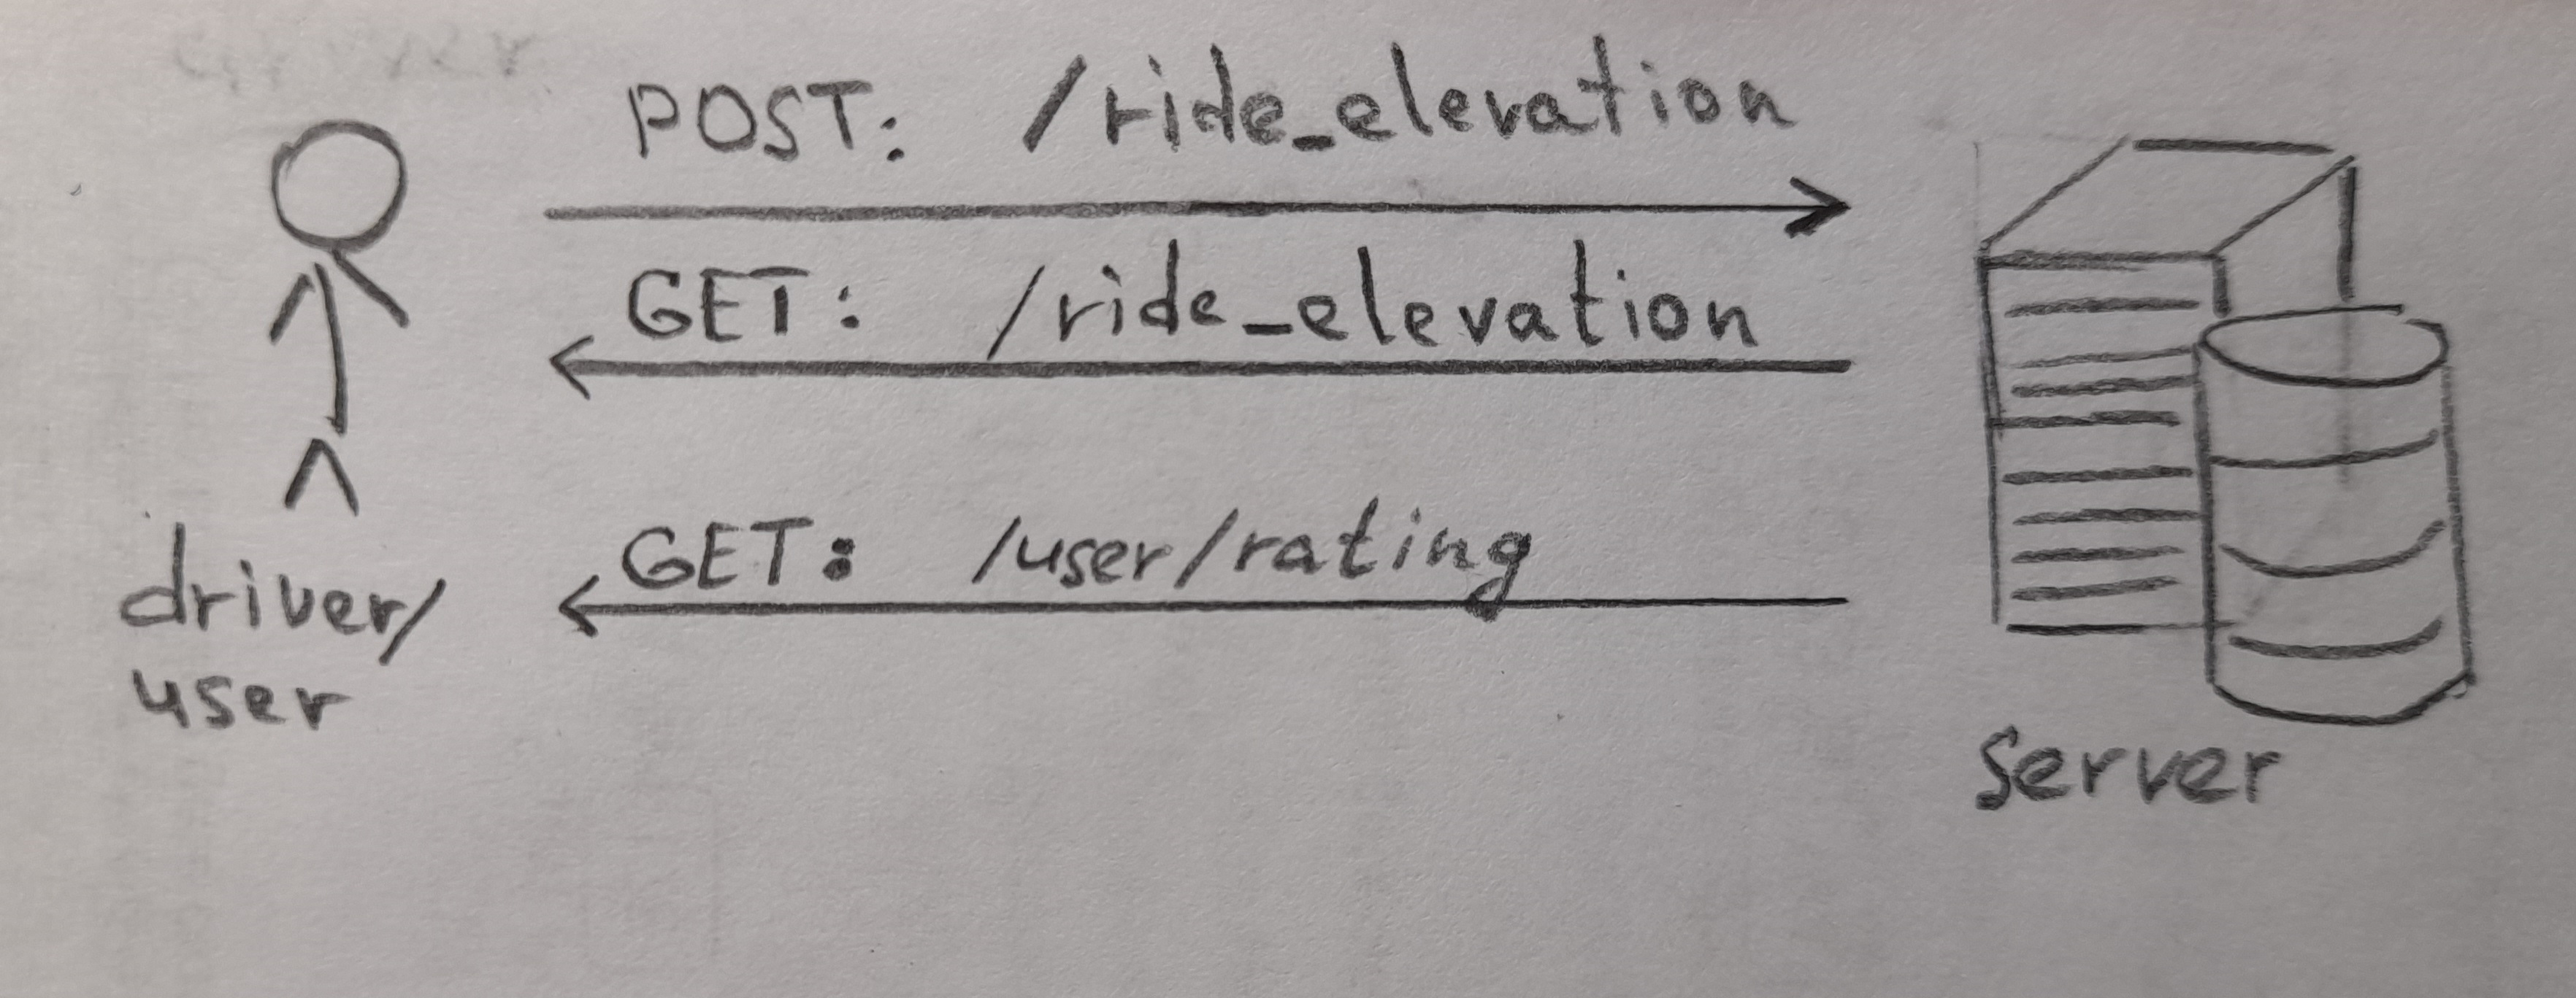
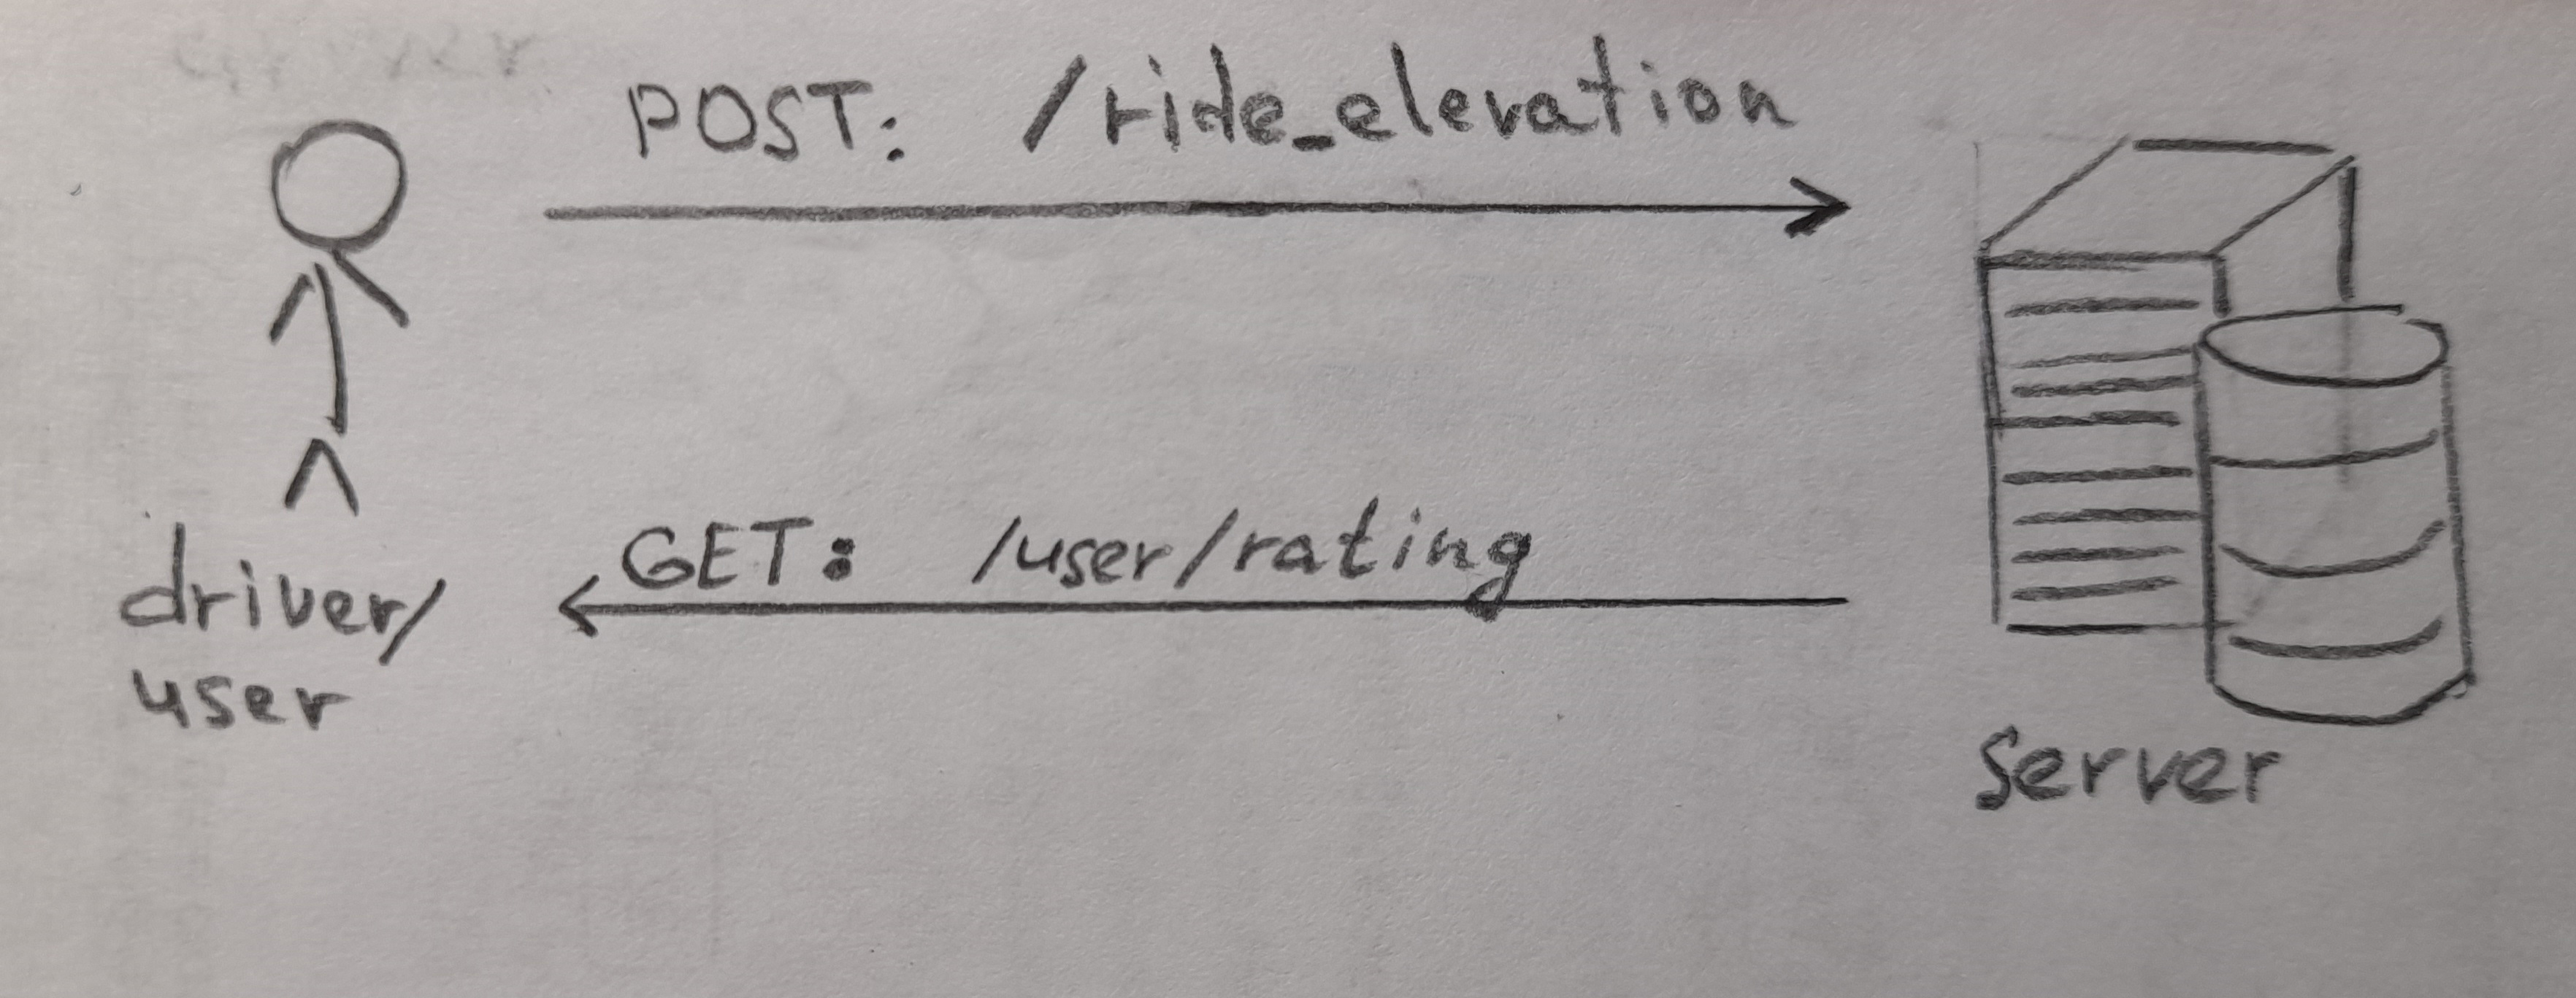
Убрал ненужную ручку и нагрузочное тестирование

Changed region(s): [[0.2183, 0.2456, 0.7171, 0.3991]]

diff --git a/kirill-neevin/task.md b/kirill-neevin/task.md
@@ -20,14 +20,12 @@
 
 ![Диаграмма](./diagram.jpg)
 
-Понадобится всего три ручки:
+Понадобится всего две ручки:
 - `POST:/ride_elevation` - чтобы выставить оценку клиенту за поездку
-- `GET:/ride_elevation` - чтобы получить оценку клиента за поездку
 - `GET:/user/rating` - чтобы получить рейтинг клиента
 
 Для хранения оценок клиента (оценки за поездку) предлагаю создать новый столбец в таблице с информацией о поездках. При добавлении новой оценки для клиента, должен происходить перерасчёт глобального рейтинга этого клиента. Глобальный рейтинг клиента предлагаю также добавить в виде столбца, только уже в таблицу users (клиенты).
 
 ### Тесты
 
-* Предлагаю покрыть юниттестами все ручки.
-* Нагрузочное тестирование на перерасчёт рейтинга (потому что это может занимать достаточно большое время)
+- Предлагаю покрыть юниттестами все ручки (обязательно рассмотреть граничный случай, когда нет ни одной оценки, следовательно нельзя рассчитать рейтинг)
